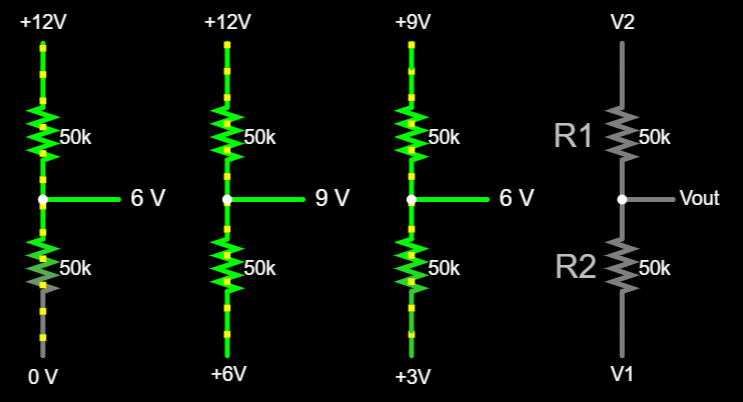
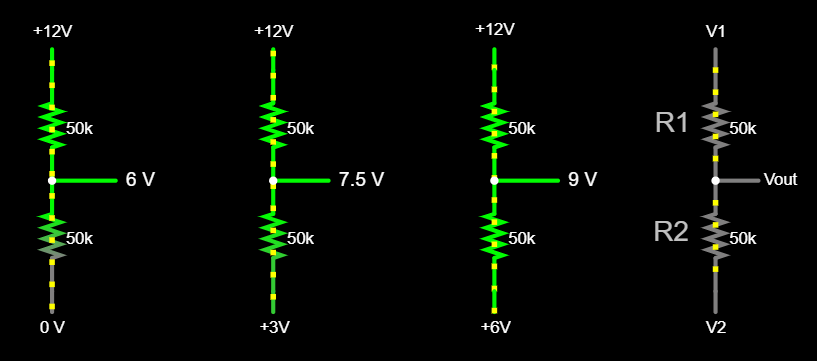
finish osc cv 05 input

diff --git a/index.md b/index.md
@@ -215,19 +215,17 @@ _Two resistors form a voltage divider at their shared node._
 
 This works because series-connected resistors are electrically equivalent to a single, larger resistor of value $R_{tot} = R_1 + R_2$. This sets current across _both_ resistors as 
 
-$$I = \frac{V}{R_1 + R_2}$$
+$$I = \frac{V_{in}}{R_1 + R_2}$$
 
-The voltage at the output is equivalent to the voltage across $R_2$, yielding
+The voltage at the output is equivalent to the voltage across $R_2$, yielding $V_{out} = V_{R2} = I R_2 = (\frac{V_{in}}{R_1 + R_2}) R_2$, which we can rewrite as
 
-$$V_{out} = V_{R1} = I R_2$$
+$$V_{out} = V_{in} \frac{R_2}{R_1 + R_2}$$
 
-$$V_{out} = \frac{V}{R_1 + R_2} R_2$$
-
-The voltage output is determined by the ratio of resistors, which scale the input voltage applied. We can verify our understanding with a simulation. (Open the simulation to experiment with different resistor values.)
+The scaling from input to output is entirely determined by the ratio of resistors. We can verify our understanding with a simulation. (Open the simulation to experiment with different resistor values.)
 
 <img src="res/voltage-divider-falstad.png" height=400 />
 
-_A voltage divider gives output proportional to the ratio of two voltages. [[Falstad]](https://tinyurl.com/2nypzrrl)_
+_A voltage divider gives output proportional to the ratio of two voltages. [[Falstad]](https://tinyurl.com/2dw4d6qg)_
 
 
 ### DC & AC
@@ -958,23 +956,78 @@ Again, using scope probes will change the oscillation frequency, and even allow 
 
 
 ### VCO Input Conditioning: Accepting 0-5V
-_**Under construction**_
 
-While the VCO works with a variable power supply, it's not ready to integrate with the rest of a system until it can accept a standard range of voltages — we specified 0-5V for control voltage (CV) signals. Right now, the oscillator works within a narrow range ~ [450mV, 550mV]. If we put 5V into the oscillator, it will drain the capacitor faster than it can charge to the high trip point; if we put 0V into the oscillator, the capacitor will charge to the high trip point and never discharge at all. We need to convert 0-5V into 450-550mV.
+While the VCO works with a variable power supply, it's not ready to integrate with the rest of a system until it can accept a standard range of voltages — we specified 0-5V as our constraint for control voltage (CV) signals. Right now, the oscillator only works within a narrow range ~ [450mV, 550mV]. An input of 5V would cause the BJT to drain the capacitor faster than it can charge; conversely, an input of 0V would cause the capacitor to never discharge at all. To accept CV, we need to convert a 0-5V input into 450-550mV.
 
-This is a linear conversion: we simply need to shrink the range to span 100mV, and shift it up into the voltage range we want. One easy way to do this is using a passive mixer, which means using resistors to balance signals into some weighted average. In fact, we have already seen the passive mixer — except we know it as a voltage divider.
+Mathematically speaking, converting an input in range x=[0, 5] to y=[0.450, 0.550] is a linear conversion satisfied by the line 
 
-<img src="res/voltage-div-shifting.png" height=250 />
+$$y=0.02x+0.450$$
 
-_A voltage divider is a 2-input passive mixer._
+Therefore, we can achieve this same conversion in our circuit by:
 
-Looking at the above examples, we see that with equal resistances, the output voltage of a two-ended voltage divider is simply the average of the two inputs. In general, the formula we found (which is therefore the formula for a 2-channel passive mixer) is:
+1. Scaling [0V, 5V] by a factor of 0.02x to span [0V, 100mV] 
+2. Adding an offset of 450mV
+
+One way to do this is via a _passive mixer_, which outputs a weighted average of multiple inputs. Our first input will be the full CV input (0-5 V), while our second input will be a constant DC voltage offset. Surprisingly, a voltage divider provides this functionality.
+
+
+#### Passive Mixing
+Typically, a [voltage divider]() is considered with a single input, and the other end is connected to 0V (GND). This simplifies the equation to the familiar
+
+$$V_{out} = V_{in} \frac{R_2}{R_1 + R_2}$$
+
+where the output voltage is proportional to the ratio of the two resistors.
+
+<img src="res/voltage-divider.png" height=300 />
+
+_Single-input voltage divider._
+
+However, while a voltage divider is typically designed to drop voltage from some input voltage to GND, in theory all that is required for its operation is a _difference_ in voltages. Similar to how ziplining from 100m to 0m works pretty much the same as from 500m to 400m, or 1500m to 1400m, there's no reason that the bottom resistor _must_ be connected to GND. The output is still proportionally placed, only relative to the new voltages (elevations) at either endpoint.
+
+<img src="res/voltage-div-shifting.png" height=300 />
+
+_[[Falstad]](https://tinyurl.com/2qb6me2t)_
+
+This changes the voltage divider equation somewhat, and reveals that the previous formulation has been a simplification which only applies when one input is grounded. The full equation, which [can be derived](proof-dual-voltage-div.md), is
 
 $$V_{out} = V_1\frac{R_1}{R_1+R_2} + V_2\frac{R_2}{R_1 + R_2}$$
 
-We're looking to scale one of our inputs (the 0-5V CV input) and offset it with a constant voltage shift, to make 450mV - 550mV. In other words, we want:
+When resistances are equal, the output voltage of a two-input voltage divider is simply the average of the two inputs. Changing the ratio of the resistors (by allowing R1 ≠ R2) shifts the midpoint "away" from the larger resistance, weighting one input more heavily than the other. This forms the principle behind passive mixing. Importantly, each ratio $\frac{R_1}{R_1+R_2}$ and $\frac{R_2}{R_1+R_2}$ forms a simple percentage (0-100%) which scales each voltage ($V_1$ or $V_2$), and these percentages _must_ add up to 100%. If $V_1$ contributes by 25% to the output voltage, $V_2$ must contribute the remaining 75%. 
 
- If we change the resistor ratios, we have a formula that provides the weighted average of two inputs, $V_1$ and $V_2$. 
+<img src="res/voltage-div-passive-mixer.png" height=450 />
+
+_A voltage divider is a 2-input passive mixer. We can change the input voltages or the resistor ratios, or both. In all cases, each output is a weighted average of the two input voltages. [[Falstad]](https://tinyurl.com/2ndekrlo)_
+
+We can applying passive mixing to our circuit to "scale and shift" the CV input.
+
+<img src="res/bias-cv-lt-schematic.png" height=200 />
+
+ Recall that our desired output range (450mV - 550mV) is 0.02x, or $\frac{2}{100}$, of our input (0-5 V). This means that our other input, which we'll call the "bias", must contribute 98% of its value to the output. Therefore:
+
+$$V_{out} = V_{CV} \frac{R_{bias}}{R_{CV} + R_{bias}} + V_{bias} \frac{R_{CV}}{R_{CV} + R_{bias}}$$
+
+$$\implies V_{out} = V_{CV}(\frac{2}{100}) + V_{bias}(\frac{98}{100})$$
+
+This implies that the resistors must be sized to maintain this ratio: We'll choose $R_{bias} = 98k\Omega$ and $R_{CV} = 2k\Omega$.
+
+Although we don't know the Bias voltage, we know the output that we want when $V_{CV}$ = 0V or 5V. We can choose to solve for voltage in either:
+
+$$ 
+\left\{
+    \begin{array}{l}
+      450\text{mV} = (0V)\frac{2k\Omega}{2k\Omega+98k\Omega} + V_{bias}\frac{98k\Omega}{2k\Omega+98k\Omega}\\
+      \\
+      550\text{mV} = (5V)\frac{2k\Omega}{2k\Omega+98k\Omega} + V_{bias}\frac{98k\Omega}{2k\Omega+98k\Omega}
+    \end{array}
+  \right.$$
+
+Using LTSpice allows us to confirm this is true. We can set the CV input to range between [0V, 5V] for 0-50ms, observing the output at each point. 
+
+<img src="res/scale-shift-ltspice.png" height=300 />
+
+We can buffer this output before passing it to the BJT base, and have successfully ensured that any valid CV input (0-5V) will work with our oscillator.
+
+> Falstad simulator is a powerful and quick tool to use for most simulation. However, when you need to do an analysis that _doesn't_ involve time — for example, we want to see the output for changing _voltage_ input — LTSpice is a clear winner over Falstad.
 
 ### Temperature Compensation
 

diff --git a/temp.md b/temp.md
@@ -1,0 +1,71 @@
+While the VCO works with a variable power supply, it's not ready to integrate with the rest of a system until it can accept a standard range of voltages — we specified 0-5V as our constraint for control voltage (CV) signals. Right now, the oscillator only works within a narrow range ~ [450mV, 550mV]. An input of 5V would cause the BJT to drain the capacitor faster than it can charge; conversely, an input of 0V would cause the capacitor to never discharge at all. To accept CV, we need to convert a 0-5V input into 450-550mV.
+
+Mathematically speaking, converting an input in range x=[0, 5] to y=[0.450, 0.550] is a linear conversion satisfied by the line 
+
+$$y=0.02x+0.450$$
+
+Therefore, we can achieve this same conversion in our circuit by:
+
+1. Scaling [0V, 5V] by a factor of 0.02x to span [0V, 100mV] 
+2. Adding an offset of 450mV
+
+One way to do this is via a _passive mixer_, which outputs a weighted average of multiple inputs. Our first input will be the full CV input (0-5 V), while our second input will be a constant DC voltage offset. Surprisingly, a voltage divider provides this functionality.
+
+
+### Passive Mixing
+Typically, a [voltage divider]() is considered with a single input, and the other end is connected to 0V (GND). This simplifies the equation to the familiar
+
+$$V_{out} = V_{in} \frac{R_2}{R_1 + R_2}$$
+
+where the output voltage is proportional to the ratio of the two resistors.
+
+<img src="res/voltage-divider.png" height=300 />
+
+_Single-input voltage divider._
+
+However, while a voltage divider is typically designed to drop voltage from some input voltage to GND, in theory all that is required for its operation is a _difference_ in voltages. Similar to how ziplining from 100m to 0m works pretty much the same as from 500m to 400m, or 1500m to 1400m, there's no reason that the bottom resistor _must_ be connected to GND. The output is still proportionally placed, only relative to the new voltages (elevations) at either endpoint.
+
+<img src="res/voltage-div-shifting.png" height=300 />
+
+_[[Falstad]](https://tinyurl.com/2qb6me2t)_
+
+This changes the voltage divider equation somewhat, and reveals that the previous formulation has been a simplification which only applies when one input is grounded. The full equation, which [can be derived](proof-dual-voltage-div.md), is
+
+$$V_{out} = V_1\frac{R_1}{R_1+R_2} + V_2\frac{R_2}{R_1 + R_2}$$
+
+When resistances are equal, the output voltage of a two-input voltage divider is simply the average of the two inputs. Changing the ratio of the resistors (by allowing R1 ≠ R2) shifts the midpoint "away" from the larger resistance, weighting one input more heavily than the other. This forms the principle behind passive mixing. Importantly, each ratio $\frac{R_1}{R_1+R_2}$ and $\frac{R_2}{R_1+R_2}$ forms a simple percentage (0-100%) which scales each voltage ($V_1$ or $V_2$), and these percentages _must_ add up to 100%. If $V_1$ contributes by 25% to the output voltage, $V_2$ must contribute the remaining 75%. 
+
+<img src="res/voltage-div-passive-mixer.png" height=450 />
+
+_A voltage divider is a 2-input passive mixer. We can change the input voltages or the resistor ratios, or both. In all cases, each output is a weighted average of the two input voltages. [[Falstad]](https://tinyurl.com/2ndekrlo)_
+
+We can applying passive mixing to our circuit to "scale and shift" the CV input.
+
+<img src="res/bias-cv-lt-schematic.png" height=200 />
+
+ Recall that our desired output range (450mV - 550mV) is 0.02x, or $\frac{2}{100}$, of our input (0-5 V). This means that our other input, which we'll call the "bias", must contribute 98% of its value to the output. Therefore:
+
+$$V_{out} = V_{CV} \frac{R_{bias}}{R_{CV} + R_{bias}} + V_{bias} \frac{R_{CV}}{R_{CV} + R_{bias}}$$
+
+$$\implies V_{out} = V_{CV}(\frac{2}{100}) + V_{bias}(\frac{98}{100})$$
+
+This implies that the resistors must be sized to maintain this ratio: We'll choose $R_{bias} = 98k\Omega$ and $R_{CV} = 2k\Omega$.
+
+Although we don't know the Bias voltage, we know the output that we want when $V_{CV}$ = 0V or 5V. We can choose to solve for voltage in either:
+
+$$ 
+\left\{
+    \begin{array}{l}
+      450\text{mV} = (0V)\frac{2k\Omega}{2k\Omega+98k\Omega} + V_{bias}\frac{98k\Omega}{2k\Omega+98k\Omega}\\
+      \\
+      550\text{mV} = (5V)\frac{2k\Omega}{2k\Omega+98k\Omega} + V_{bias}\frac{98k\Omega}{2k\Omega+98k\Omega}
+    \end{array}
+  \right.$$
+
+Using LTSpice allows us to confirm this is true. We can set the CV input to range between [0V, 5V] for 0-50ms, observing the output at each point. 
+
+<img src="res/scale-shift-ltspice.png" height=300 />
+
+We can buffer this output before passing it to the BJT base, and have successfully ensured that any valid CV input (0-5V) will work with our oscillator.
+
+> Falstad simulator is a powerful and quick tool to use for most simulation. However, when you need to do an analysis that _doesn't_ involve time — for example, we want to see the output for changing _voltage_ input — LTSpice is a clear winner over Falstad.
